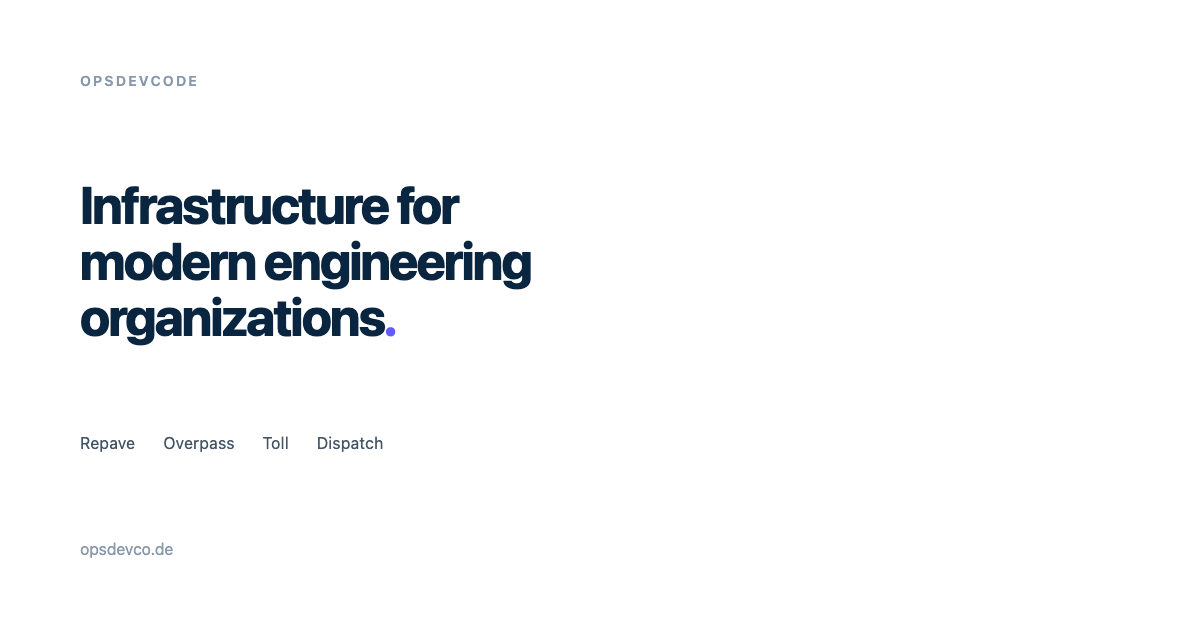
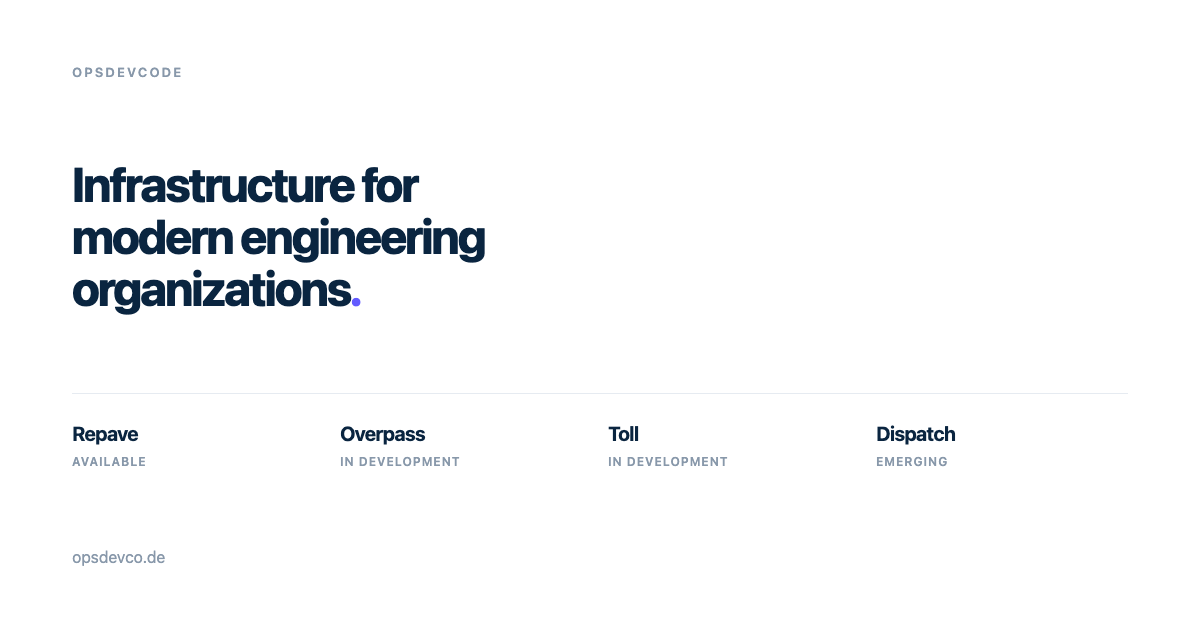
style(seo): refresh social cards for product-company unfurl
- Replace the tiny system-map thumbnail with a readable product panel
- Keep thesis, product names, and maturity labels unchanged
- Cache-bust homepage preview so LinkedIn can pick up the new image

diff --git a/scripts/social-preview-v4.html b/scripts/social-preview-v4.html
@@ -21,8 +21,8 @@
           -apple-system,
           sans-serif;
         display: grid;
-        grid-template-columns: 1.1fr 0.9fr;
-        gap: 40px;
+        grid-template-columns: 1.15fr 0.85fr;
+        gap: 48px;
         padding: 64px 72px;
       }
       .kicker {
@@ -31,68 +31,56 @@
         text-transform: uppercase;
         color: #8898aa;
         font-weight: 600;
-        margin-bottom: 20px;
+        margin-bottom: 22px;
       }
       h1 {
-        font-size: 44px;
+        font-size: 46px;
         letter-spacing: -0.045em;
-        line-height: 1.1;
+        line-height: 1.08;
         font-weight: 750;
+        max-width: 12ch;
       }
       h1 span {
         color: #635bff;
       }
       .url {
-        margin-top: 28px;
+        margin-top: 36px;
         color: #8898aa;
         font-size: 16px;
       }
-      .map {
-        border: 1px solid #e6ebf1;
-        background: #ffffff;
-        padding: 20px;
+      .portfolio {
         align-self: center;
+        background: #ffffff;
+        border: 1px solid #e6ebf1;
+        padding: 8px 0;
       }
-      .actors {
-        display: grid;
-        grid-template-columns: 1fr 1fr 1fr;
-        gap: 8px;
-        font-size: 11px;
-        letter-spacing: 0.08em;
-        text-transform: uppercase;
-        color: #8898aa;
-        text-align: center;
-        margin-bottom: 16px;
-      }
-      .frame {
-        border: 1px solid #cfd7df;
-        padding: 12px;
-      }
-      .co {
+      .portfolio-label {
         font-size: 11px;
         letter-spacing: 0.14em;
         text-transform: uppercase;
-        font-weight: 700;
-        margin-bottom: 10px;
-      }
-      .dom {
-        display: grid;
-        grid-template-columns: 1fr 1fr 1fr;
-        gap: 8px;
-        font-size: 13px;
+        color: #8898aa;
         font-weight: 600;
+        padding: 10px 22px 12px;
       }
-      .dom span {
-        border: 1px solid #e6ebf1;
-        padding: 8px 6px;
-        text-align: center;
+      .row {
+        display: grid;
+        grid-template-columns: 1fr auto;
+        align-items: baseline;
+        gap: 16px;
+        padding: 14px 22px;
+        border-top: 1px solid #e6ebf1;
       }
-      .xp {
-        margin-top: 8px;
-        border: 1px dashed #cfd7df;
-        padding: 8px;
+      .name {
+        font-size: 22px;
+        font-weight: 650;
+        letter-spacing: -0.03em;
+      }
+      .status {
         font-size: 12px;
-        color: #425466;
+        letter-spacing: 0.08em;
+        text-transform: uppercase;
+        color: #8898aa;
+        font-weight: 600;
       }
     </style>
   </head>
@@ -102,12 +90,23 @@
       <h1>Infrastructure for modern engineering organizations<span>.</span></h1>
       <p class="url">opsdevco.de</p>
     </div>
-    <div class="map" aria-hidden="true">
-      <div class="actors"><span>Human</span><span>Automation</span><span>Agent</span></div>
-      <div class="frame">
-        <p class="co">OpsDevCode</p>
-        <div class="dom"><span>Repave</span><span>Overpass</span><span>Toll</span></div>
-        <p class="xp">Dispatch · governed experience</p>
+    <div class="portfolio" aria-hidden="true">
+      <p class="portfolio-label">Products</p>
+      <div class="row">
+        <span class="name">Repave</span>
+        <span class="status">Available</span>
+      </div>
+      <div class="row">
+        <span class="name">Overpass</span>
+        <span class="status">In development</span>
+      </div>
+      <div class="row">
+        <span class="name">Toll</span>
+        <span class="status">In development</span>
+      </div>
+      <div class="row">
+        <span class="name">Dispatch</span>
+        <span class="status">Emerging</span>
       </div>
     </div>
   </body>

diff --git a/scripts/og-image.html b/scripts/og-image.html
@@ -12,6 +12,7 @@
       body {
         width: 1200px;
         height: 630px;
+        overflow: hidden;
         background: #ffffff;
         color: #0a2540;
         font-family:
@@ -20,33 +21,46 @@
           -apple-system,
           sans-serif;
         display: flex;
-        padding: 72px 80px;
         flex-direction: column;
         justify-content: space-between;
+        padding: 64px 72px;
       }
       .kicker {
-        font-size: 14px;
+        font-size: 13px;
         letter-spacing: 0.16em;
         text-transform: uppercase;
         color: #8898aa;
         font-weight: 600;
       }
       h1 {
-        font-size: 52px;
-        letter-spacing: -0.04em;
+        font-size: 48px;
+        letter-spacing: -0.045em;
         line-height: 1.08;
-        max-width: 16ch;
         font-weight: 750;
+        max-width: 14ch;
       }
       h1 span {
         color: #635bff;
       }
-      .row {
-        display: flex;
-        gap: 28px;
-        font-size: 16px;
-        color: #425466;
-        letter-spacing: 0.02em;
+      .products {
+        display: grid;
+        grid-template-columns: repeat(4, 1fr);
+        gap: 16px;
+        border-top: 1px solid #e6ebf1;
+        padding-top: 28px;
+      }
+      .products strong {
+        display: block;
+        font-size: 20px;
+        letter-spacing: -0.03em;
+        margin-bottom: 6px;
+      }
+      .products span {
+        font-size: 12px;
+        letter-spacing: 0.08em;
+        text-transform: uppercase;
+        color: #8898aa;
+        font-weight: 600;
       }
       .url {
         font-size: 16px;
@@ -57,12 +71,12 @@
   <body>
     <p class="kicker">OpsDevCode</p>
     <h1>Infrastructure for modern engineering organizations<span>.</span></h1>
-    <p class="row">
-      <span>Repave</span>
-      <span>Overpass</span>
-      <span>Toll</span>
-      <span>Dispatch</span>
-    </p>
+    <div class="products" aria-hidden="true">
+      <p><strong>Repave</strong><span>Available</span></p>
+      <p><strong>Overpass</strong><span>In development</span></p>
+      <p><strong>Toll</strong><span>In development</span></p>
+      <p><strong>Dispatch</strong><span>Emerging</span></p>
+    </div>
     <p class="url">opsdevco.de</p>
   </body>
 </html>

diff --git a/src/app/page.tsx b/src/app/page.tsx
@@ -9,7 +9,7 @@ import { products } from '@/lib/products'
 import { CALENDLY_URL, CONTACT_EMAIL, SITE_DESCRIPTION, SITE_TAGLINE, SITE_URL } from '@/lib/site'
 
 const shareTitle = 'OpsDevCode — Infrastructure for modern engineering organizations'
-const socialPreviewImage = '/assets/preview-v4.png?v=7'
+const socialPreviewImage = '/assets/preview-v4.png?v=8'
 
 export const metadata: Metadata = {
   title: { absolute: 'OpsDevCode' },
